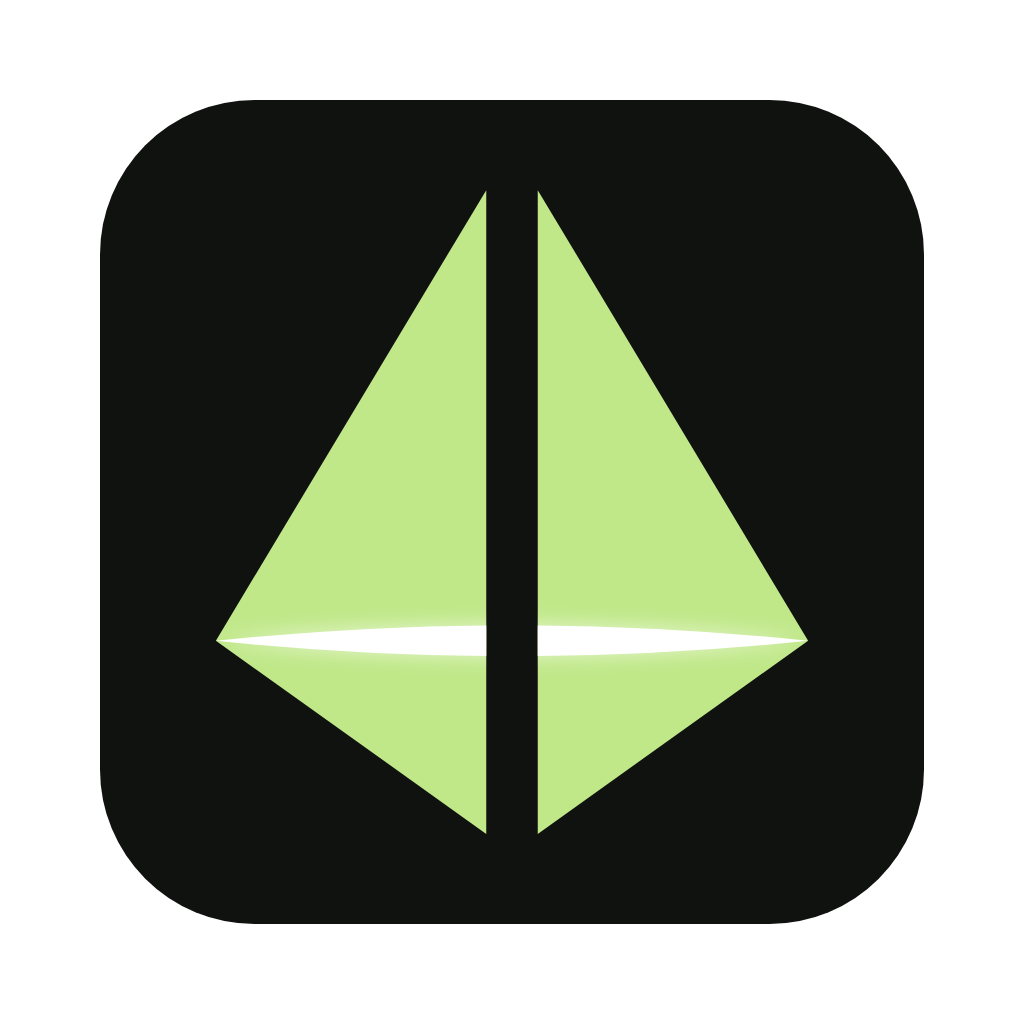
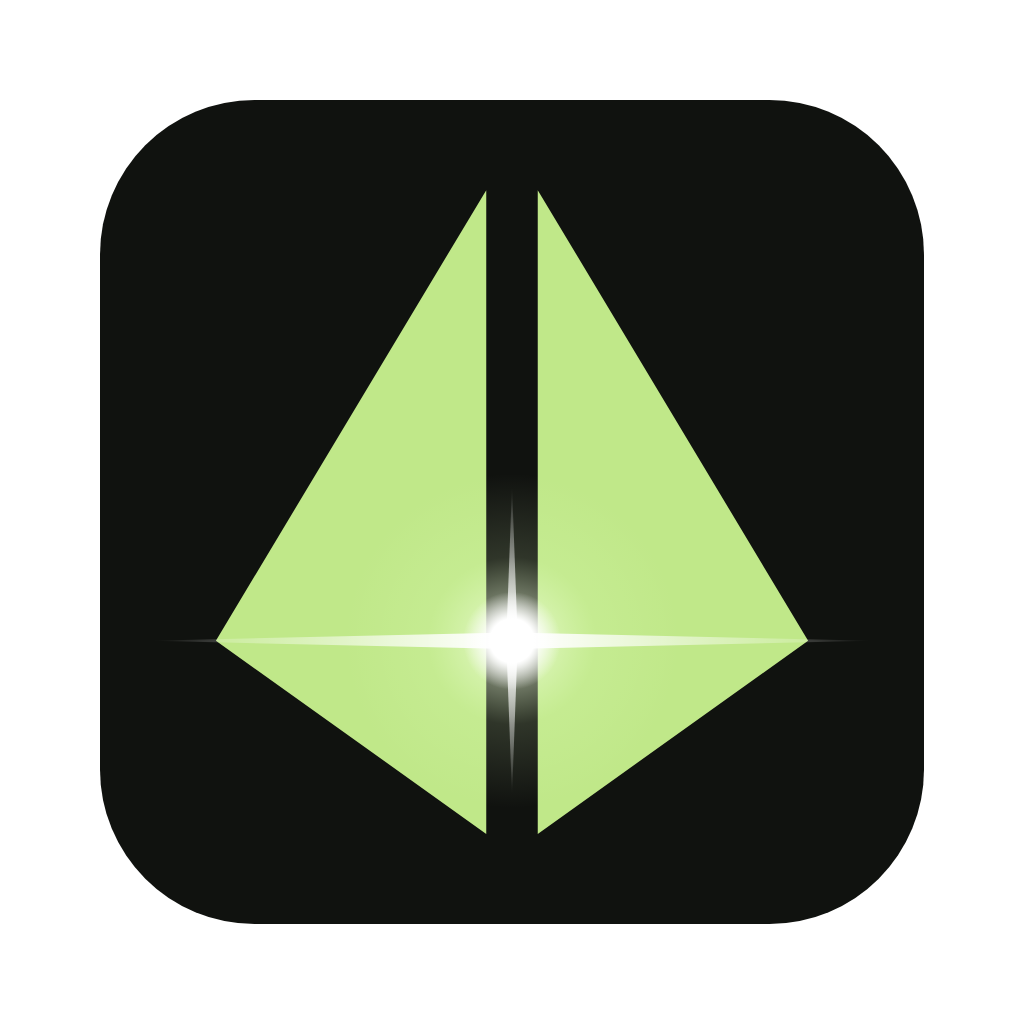
feat(desktop): a point of light at the heart of the mark
The line of light across the mark did not read as light shining out.
Like the glowing point at the foot of the Vault in Foundation, the mark
now has a bright point where its centre gap crosses its widest line: a
soft white core, a halo, and a four-point star whose long rays run along
the widest line past the mark's edges and whose short rays run along
the gap.

Changed region(s): [[0.2188, 0.5, 0.7812, 0.75]]

diff --git a/CHANGELOG.md b/CHANGELOG.md
@@ -7,7 +7,7 @@ Follows the Keep a Changelog structure. The version comes from `anchi/package.js
 ### Added
 
 - Saved remote servers: `anchi server add <name> <target>` saves any SSH host (`ssh:<[user@]host>`) or instabox machine under a short name, `anchi server` and `anchi server ls` list them after `local`, `anchi server <name>` uses one and `anchi server rm <name>` forgets it. The list is `~/.anchi/servers.json`. Choosing a host that has no `anchi-bridge` names the command that installs it, `scripts/remote.sh <target>`. See `docs/REMOTE_SERVER.md`.
-- Desktop app (macOS and Linux, from a source checkout: `scripts/anchi-desktop`): agents as contacts with a conversation of tasks (each message starts a new task in its own session; Continue this task replies in an existing one), the task transcript and replies in a resizable panel beside it, the agent builder with a proposal review panel, approvals in place and in their own view, usage, and settings including the server to use. It talks to the same local or remote daemon as the CLI and calls only a fixed list of daemon methods. On macOS it runs as `dist/Anchi.app`, so the menu bar, the Dock and Activity Monitor say Anchi rather than Electron. Its icon is the Anchi mark with light coming out of its centre gap across its widest point, tallest beside the gap and thinning to the edges, something made inside the vault; the landing page's favicon matches it (transparent around the tile, `scripts/icon.mjs` renders it) and keeps its own profile (`Anchi Desktop`). There is no title bar of its own: the server in use is a button at the bottom of the rail and a tag in each agent's header, with a banner while it is not connected, and only the panes scroll. Settings sets up Codex, Claude Code and Hermes in place, and takes connector tokens in a form under the connector's row. Connectors and services show the service's name and mark (bundled, never fetched). An agent's Settings tab edits its runtime, model, effort, system prompt, skills, connectors and workspaces after a review of the change to its file; giving an agent a new connector, workspace or write access is confirmed in a system dialog. Settings lists `local` and the saved servers, adds an instabox machine or any SSH host and says what to run when it has no Anchi yet, and adds skills from GitHub or (local server) a folder, checks and installs updates, and removes skills after a system dialog. A getting-started guide (where Anchi runs, preparing the environment, a runtime, a starter agent and its first task) opens for each server the window has not finished it for, unless that server is already set up, so switching to a new remote server opens it at preparing; a missing Codex login on the server names the command to run there. Services can let X and Reddit post without asking after a system dialog with the warning, and an agent's Settings tab exempts it from high-risk approvals (also after a system dialog). See `docs/DESKTOP.md`.
+- Desktop app (macOS and Linux, from a source checkout: `scripts/anchi-desktop`): agents as contacts with a conversation of tasks (each message starts a new task in its own session; Continue this task replies in an existing one), the task transcript and replies in a resizable panel beside it, the agent builder with a proposal review panel, approvals in place and in their own view, usage, and settings including the server to use. It talks to the same local or remote daemon as the CLI and calls only a fixed list of daemon methods. On macOS it runs as `dist/Anchi.app`, so the menu bar, the Dock and Activity Monitor say Anchi rather than Electron. Its icon is the Anchi mark with a point of light where its centre gap crosses its widest point, shining out as a four-point star, something made inside the vault; the landing page's favicon matches it (transparent around the tile, `scripts/icon.mjs` renders it) and keeps its own profile (`Anchi Desktop`). There is no title bar of its own: the server in use is a button at the bottom of the rail and a tag in each agent's header, with a banner while it is not connected, and only the panes scroll. Settings sets up Codex, Claude Code and Hermes in place, and takes connector tokens in a form under the connector's row. Connectors and services show the service's name and mark (bundled, never fetched). An agent's Settings tab edits its runtime, model, effort, system prompt, skills, connectors and workspaces after a review of the change to its file; giving an agent a new connector, workspace or write access is confirmed in a system dialog. Settings lists `local` and the saved servers, adds an instabox machine or any SSH host and says what to run when it has no Anchi yet, and adds skills from GitHub or (local server) a folder, checks and installs updates, and removes skills after a system dialog. A getting-started guide (where Anchi runs, preparing the environment, a runtime, a starter agent and its first task) opens for each server the window has not finished it for, unless that server is already set up, so switching to a new remote server opens it at preparing; a missing Codex login on the server names the command to run there. Services can let X and Reddit post without asking after a system dialog with the warning, and an agent's Settings tab exempts it from high-risk approvals (also after a system dialog). See `docs/DESKTOP.md`.
 
 - Remote server: run the daemon, trusted services and cells on an instabox VM or an SSH host while the TUI and CLI stay on this computer. Set it up with `scripts/remote.sh instabox:<machine>`, choose it with `anchi server <target>` (or `--server`, `ANCHI_SERVER`), then `anchi setup install`. Browser sign-ins open locally and relay their callback to the server. See `docs/REMOTE_SERVER.md`.
 
